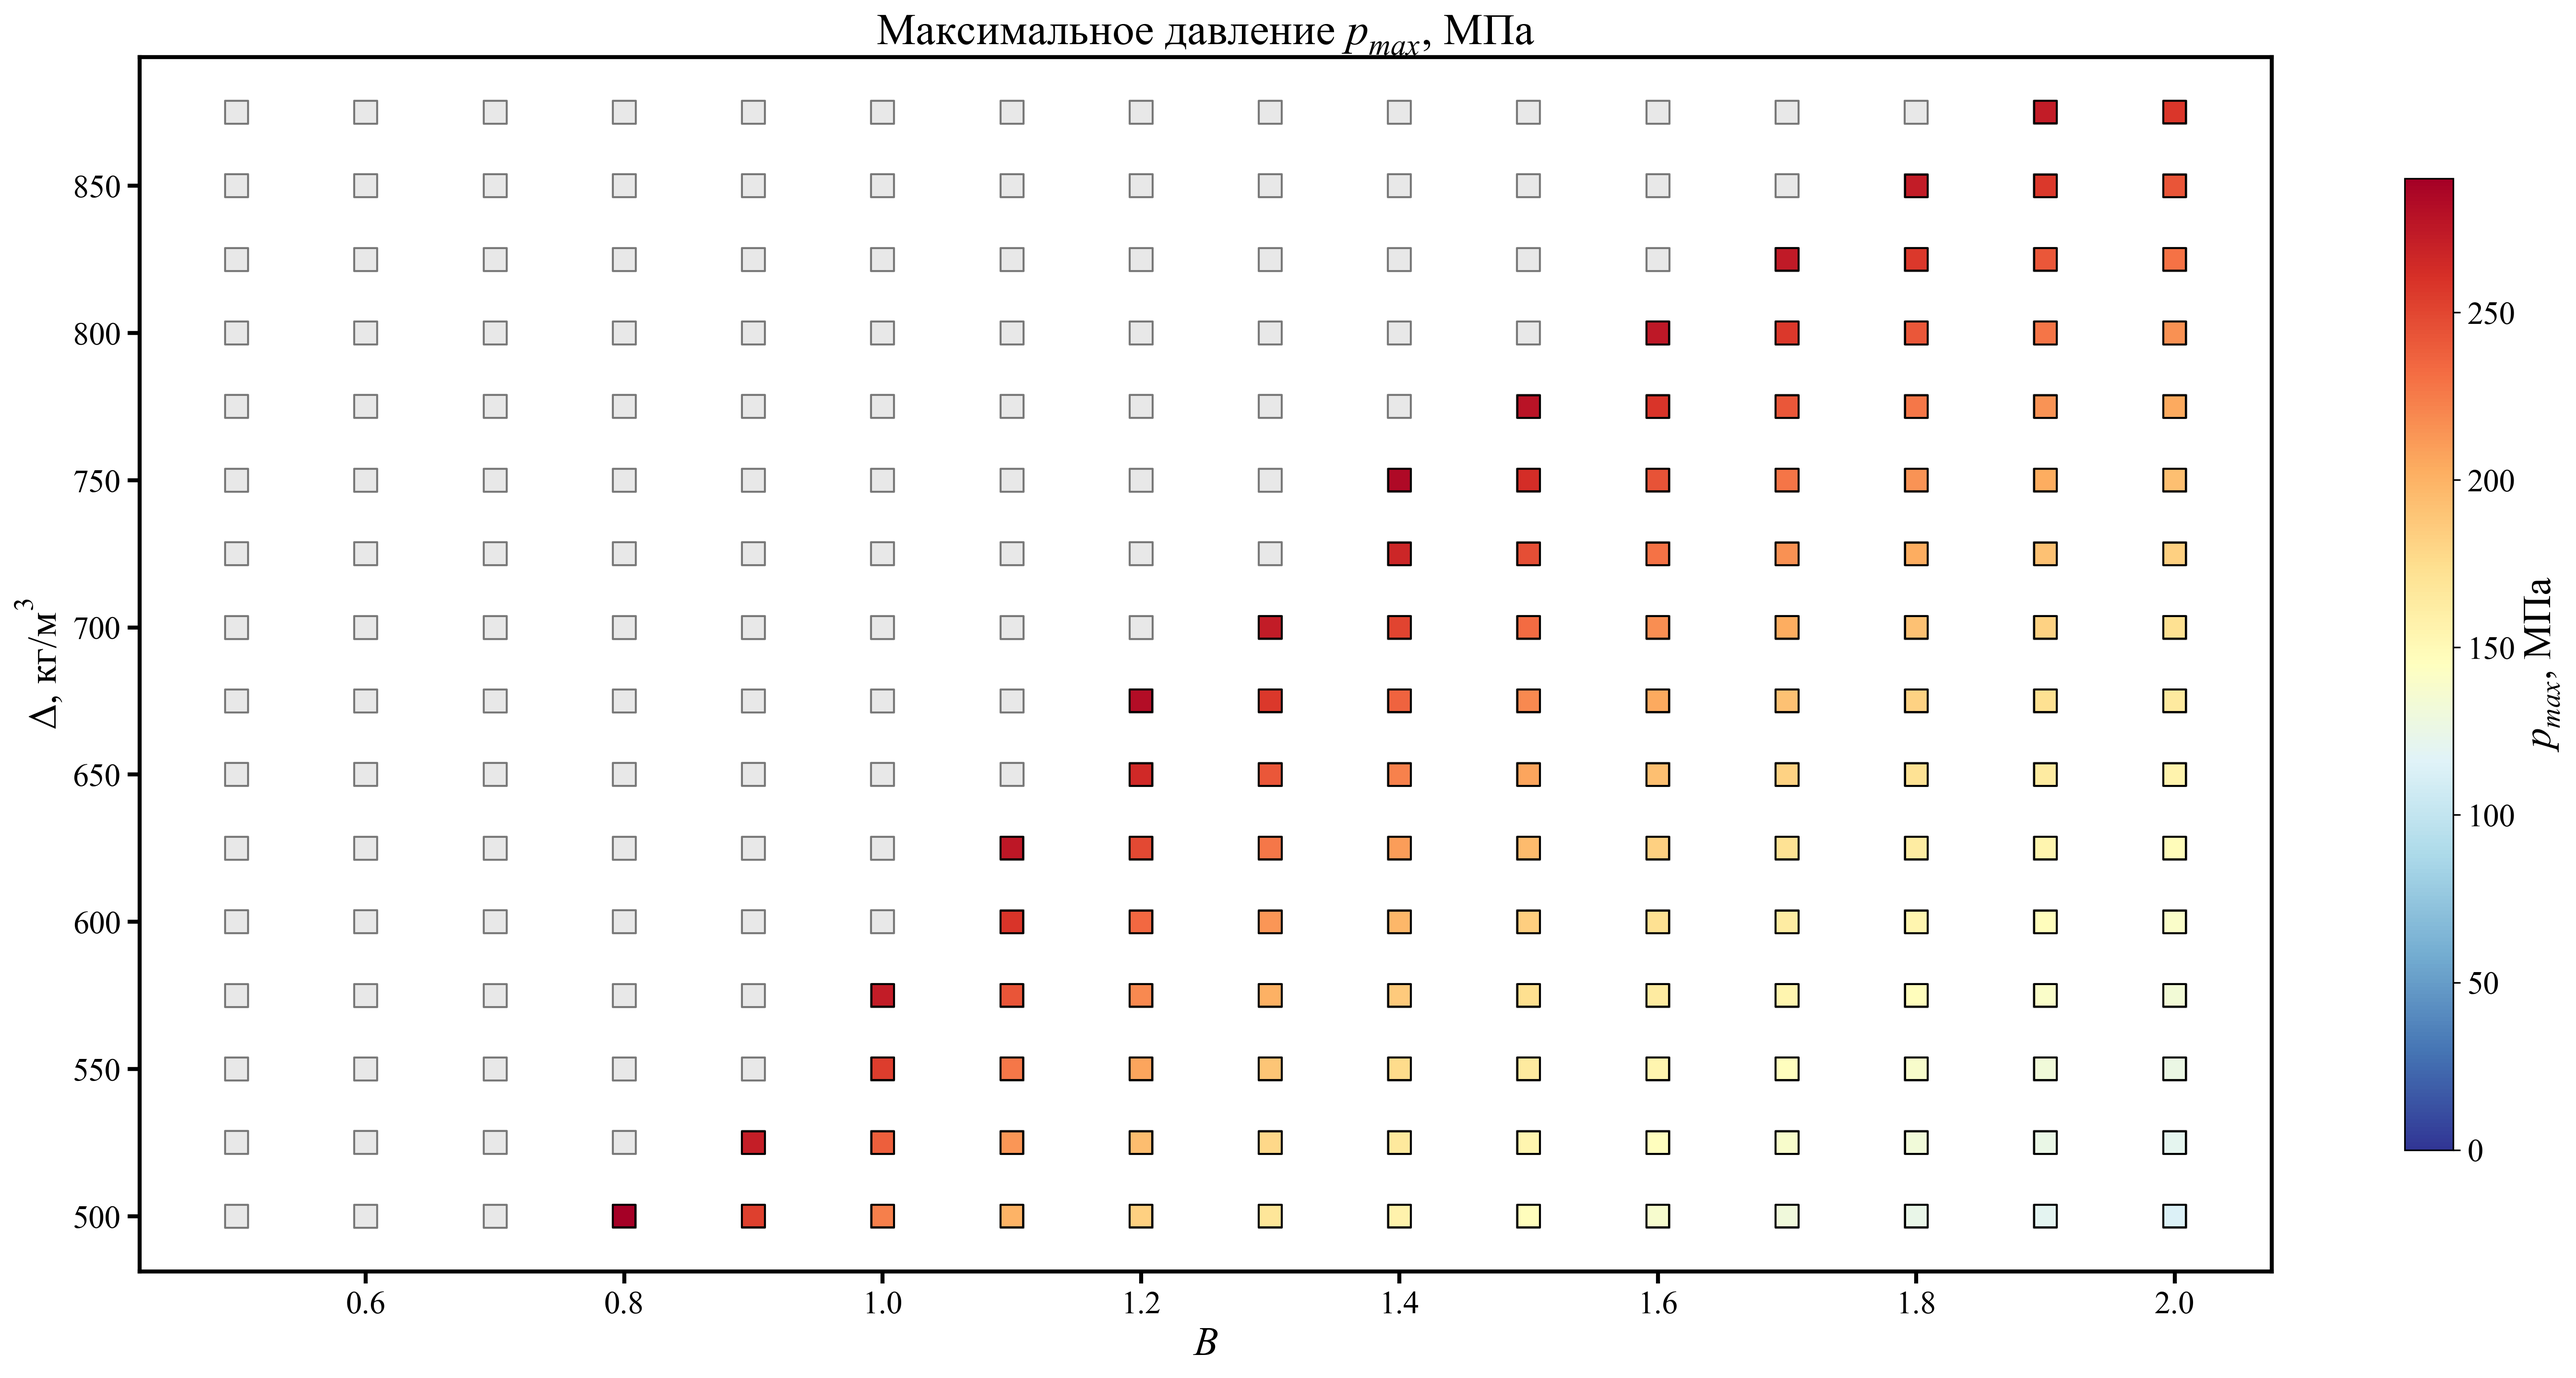
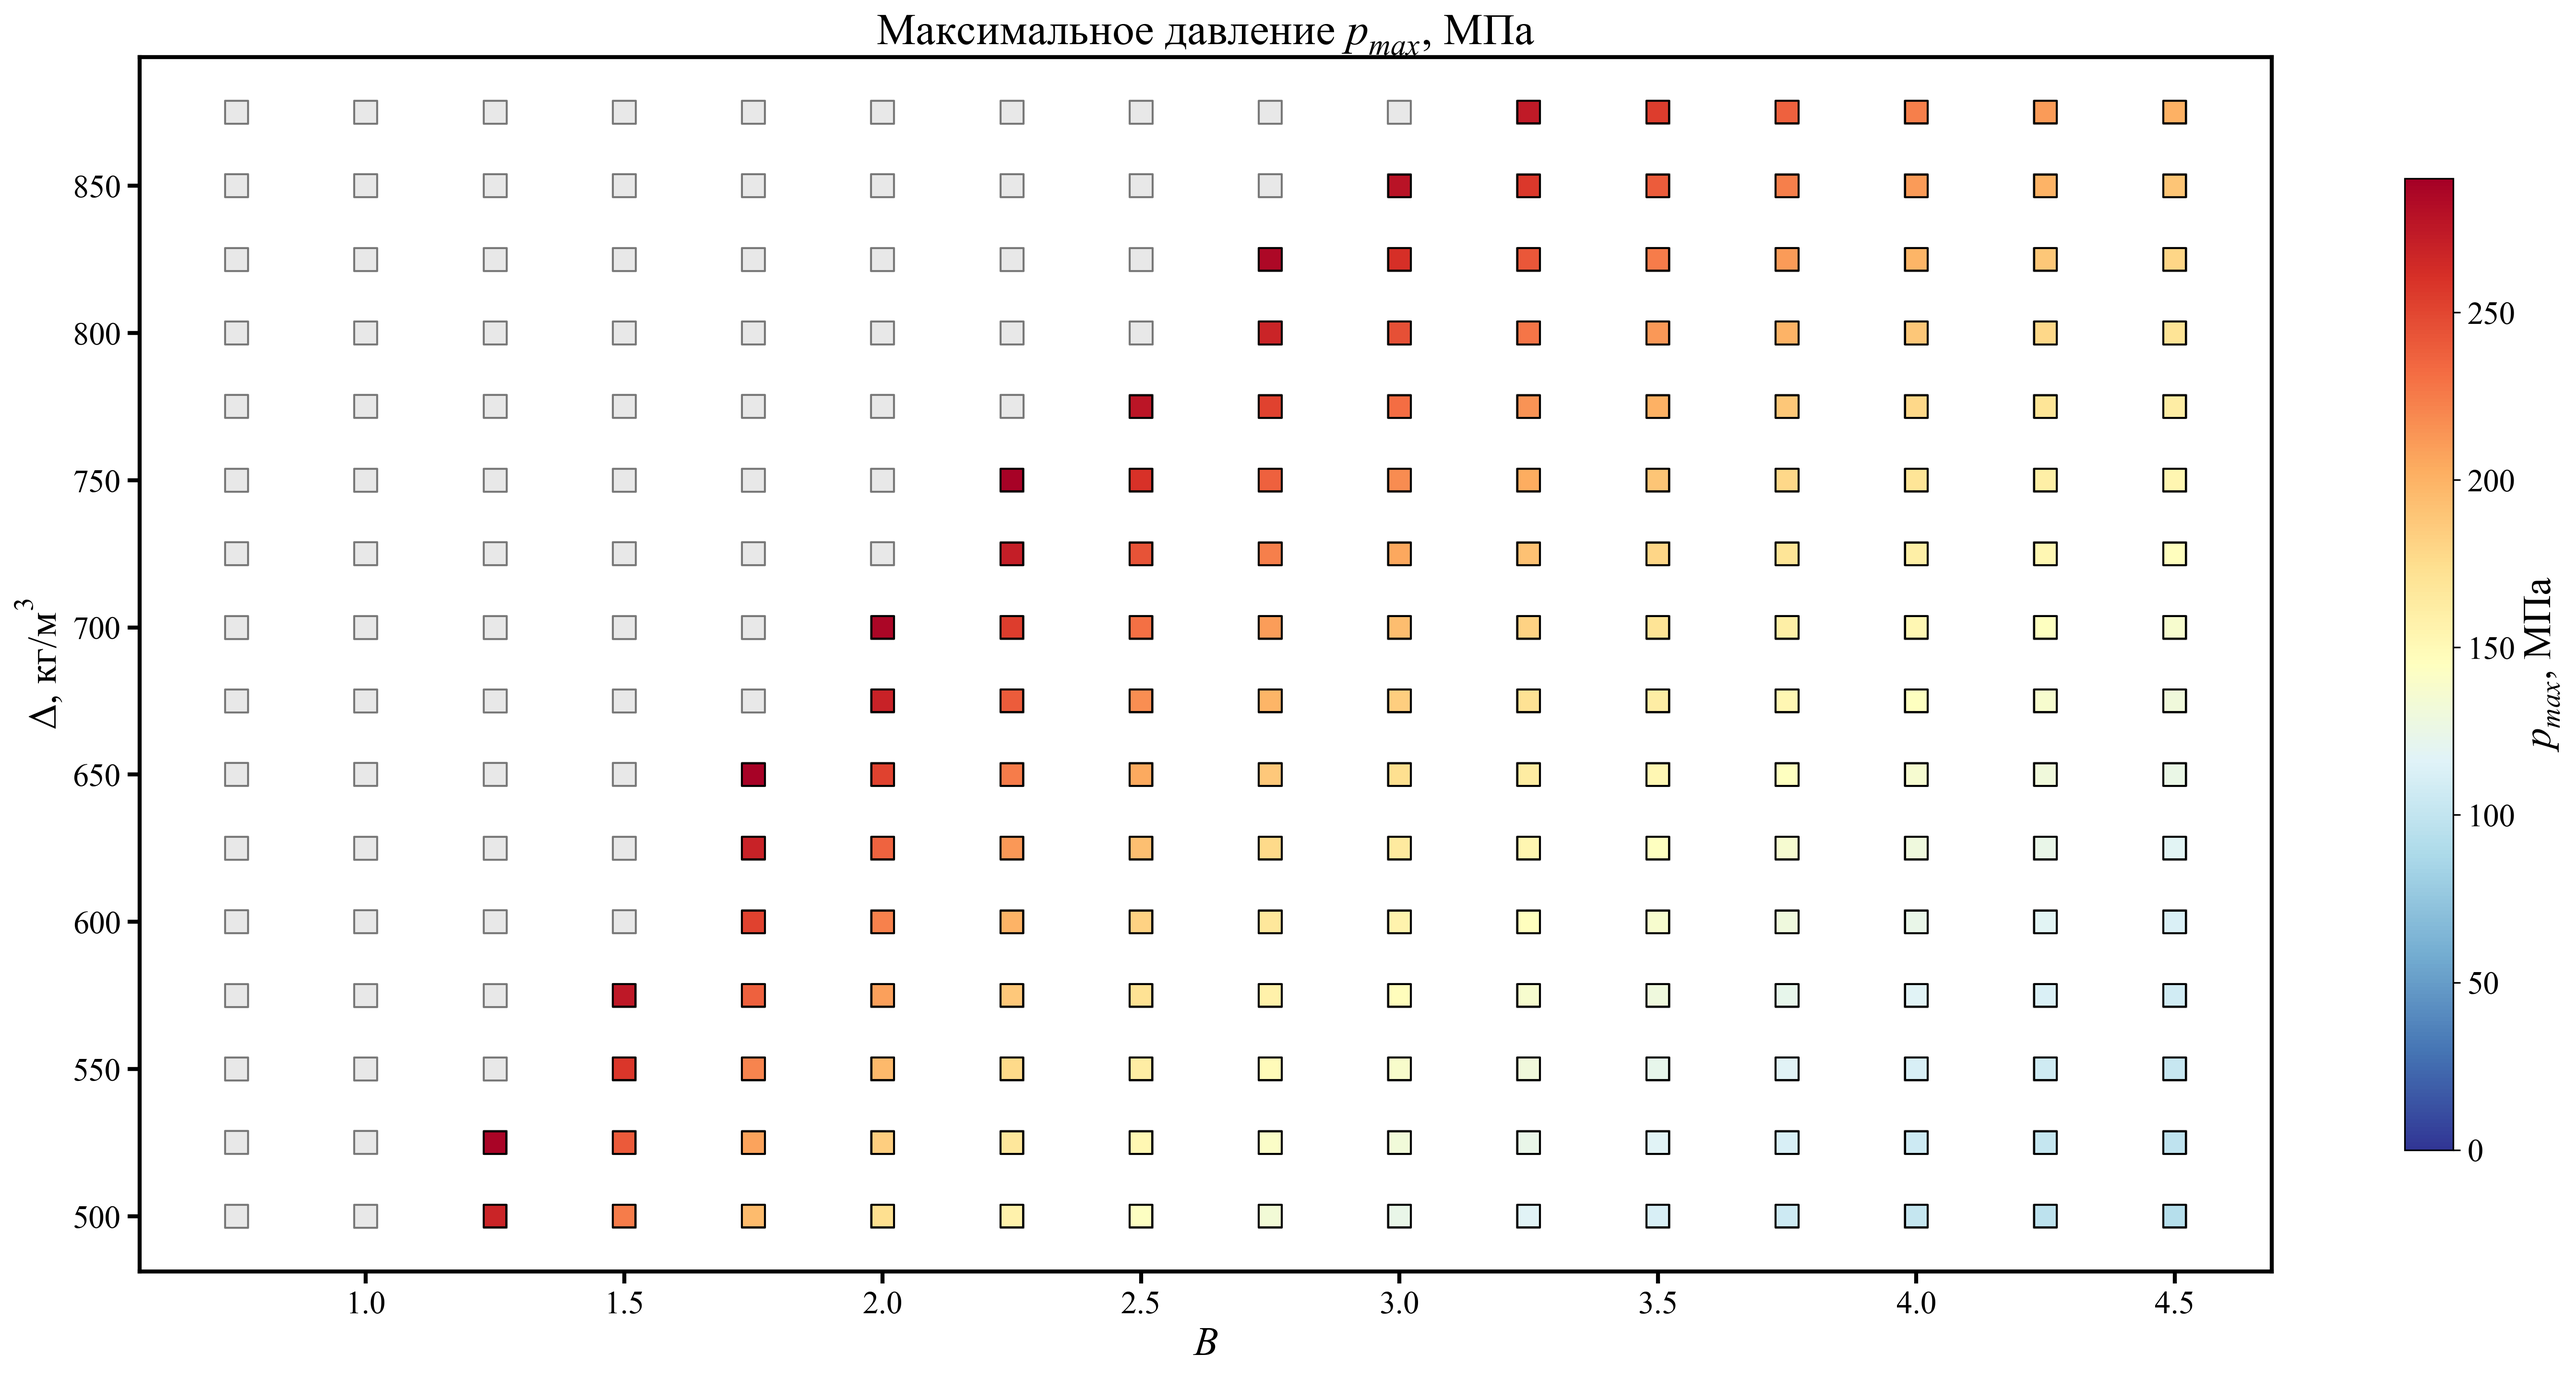
Classes updated

diff --git a/SRC/Direct_Problem.py b/SRC/Direct_Problem.py
@@ -412,8 +412,7 @@ class Required_Pressure_Rate_Table:
         return None, None, None, None
 
     def interpolate_B(self, B_left, B_right, p_left, p_right, target_pmax):
-
-        # p_left > p_right
+        # p_left > p_right:
         t = (target_pmax - p_left) / (p_right - p_left)
         B_target = B_left + t * (B_right - B_left)
         return B_target
